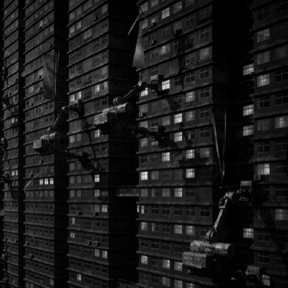
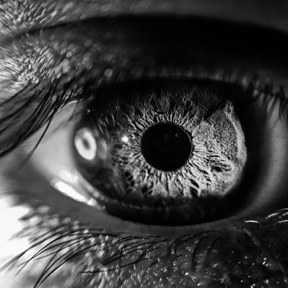
feat(stance): an eye, a ship's wheel and a power button, big enough to read
Owner: the scene crops did not read as the pillars. Three royalty-free stock
photos replace them, chosen for one iconic outline each and near-binary
contrast: an eye (See it), a metal ship's wheel (Steer it), a power button
(Own it). Sources, authors and licences (Unsplash/Pexels, confirmed on each
page) are in assets-src/stance/SOURCES.md; make-scene-crops.mjs cuts them
without needing .scenes-raw/.

The vignettes grow to 320px with a finer grid (data-grid=130 per canvas), and
the panels share rows through subgrid so the text lines up across columns
(number/verb at the same y in all three, measured at 1024 and 1440).

diff --git a/src/lib/dot-scene-runtime.ts b/src/lib/dot-scene-runtime.ts
@@ -1,8 +1,7 @@
 import { sampleDots, dotFrame, type Dot } from './dot-scene';
 
-/** Grid cells per side, and the resolution each picture is sampled at. */
+/** Grid cells per side unless the canvas sets `data-grid`; pictures are sampled at twice that. */
 const GRID = 96;
-const SAMPLE = 192;
 
 interface Scene {
   canvas: HTMLCanvasElement;
@@ -13,6 +12,8 @@ interface Scene {
   ink: string;
   /** The sampled picture, kept so a theme change can resample it. */
   px: Uint8ClampedArray;
+  /** Grid cells per side: a bigger vignette carries a finer grid. */
+  grid: number;
 }
 
 /** Ink darker than mid-grey prints the picture's dark (a halftone on paper); light ink draws its light. */
@@ -21,7 +22,7 @@ function isDarkInk(ink: string): boolean {
   return 0.2126 * r + 0.7152 * g + 0.0722 * b < 128;
 }
 function resample(s: Scene): void {
-  s.dots = sampleDots(s.px, SAMPLE, GRID, Math.random, isDarkInk(s.ink));
+  s.dots = sampleDots(s.px, s.grid * 2, s.grid, Math.random, isDarkInk(s.ink));
 }
 
 /** Resolves any CSS colour, oklch or color-mix included, to sRGB bytes. */
@@ -37,9 +38,11 @@ async function load(canvas: HTMLCanvasElement): Promise<Scene> {
   const img = new Image();
   img.src = canvas.dataset.src!;
   await img.decode();
-  const g = Object.assign(document.createElement('canvas'), { width: SAMPLE, height: SAMPLE }).getContext('2d')!;
-  g.drawImage(img, 0, 0, SAMPLE, SAMPLE);
-  const s: Scene = { canvas, dots: [], t0: null, ink: paint(getComputedStyle(canvas).color), px: g.getImageData(0, 0, SAMPLE, SAMPLE).data };
+  const grid = Number(canvas.dataset.grid) || GRID;
+  const size = grid * 2;
+  const g = Object.assign(document.createElement('canvas'), { width: size, height: size }).getContext('2d')!;
+  g.drawImage(img, 0, 0, size, size);
+  const s: Scene = { canvas, dots: [], t0: null, ink: paint(getComputedStyle(canvas).color), px: g.getImageData(0, 0, size, size).data, grid };
   resample(s);
   return s;
 }
@@ -119,7 +122,7 @@ function draw(s: Scene, now: number): void {
   // One colour per canvas; each dot varies only its alpha.
   g.fillStyle = `rgb(${s.ink})`;
   for (const d of s.dots) {
-    const f = dotFrame(d, t, w, GRID);
+    const f = dotFrame(d, t, w, s.grid);
     g.globalAlpha = f.a;
     g.beginPath();
     g.arc(f.x, f.y, f.r, 0, Math.PI * 2);

diff --git a/assets-src/stance/SOURCES.md b/assets-src/stance/SOURCES.md
@@ -1,0 +1,13 @@
+# Stance vignette sources
+
+The three photos behind the stance section's dot vignettes, kept here at 1200px
+so `npm run scenes:crops` can re-cut them. Both licences allow free commercial
+use without attribution; the credits are recorded anyway.
+
+| File | Pillar | Photo | Author | Licence |
+|---|---|---|---|---|
+| `see.jpg` | See it | https://unsplash.com/photos/RdaKT5RtUk8 (an eye in close-up) | Nathan DeFiesta | [Unsplash License](https://unsplash.com/license) |
+| `steer.jpg` | Steer it | https://unsplash.com/photos/4KaY-etsnKc (a metal ship's wheel on a wall) | Matt Artz | [Unsplash License](https://unsplash.com/license) |
+| `own.jpg` | Own it | https://www.pexels.com/photo/power-button-in-laptop-7523354/ (a power button) | energepic.com | [Pexels License](https://www.pexels.com/license/) |
+
+Licences confirmed on each photo's page on 2026-09-27.
